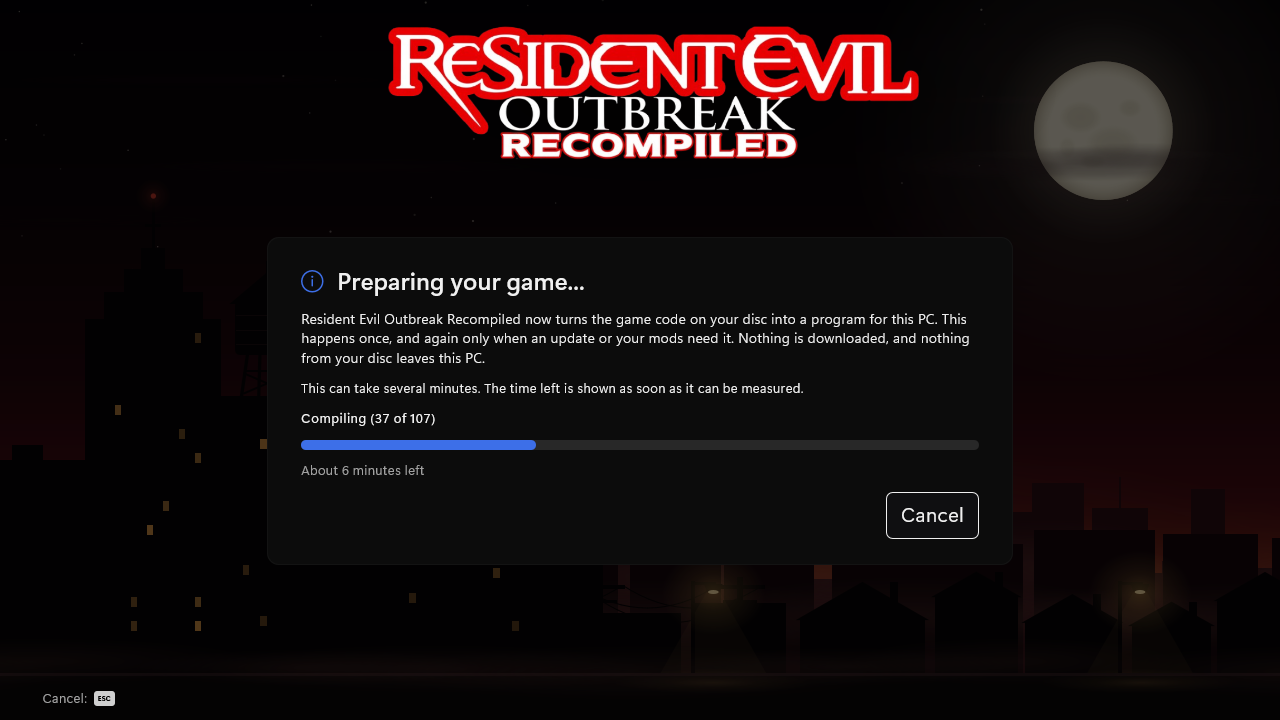
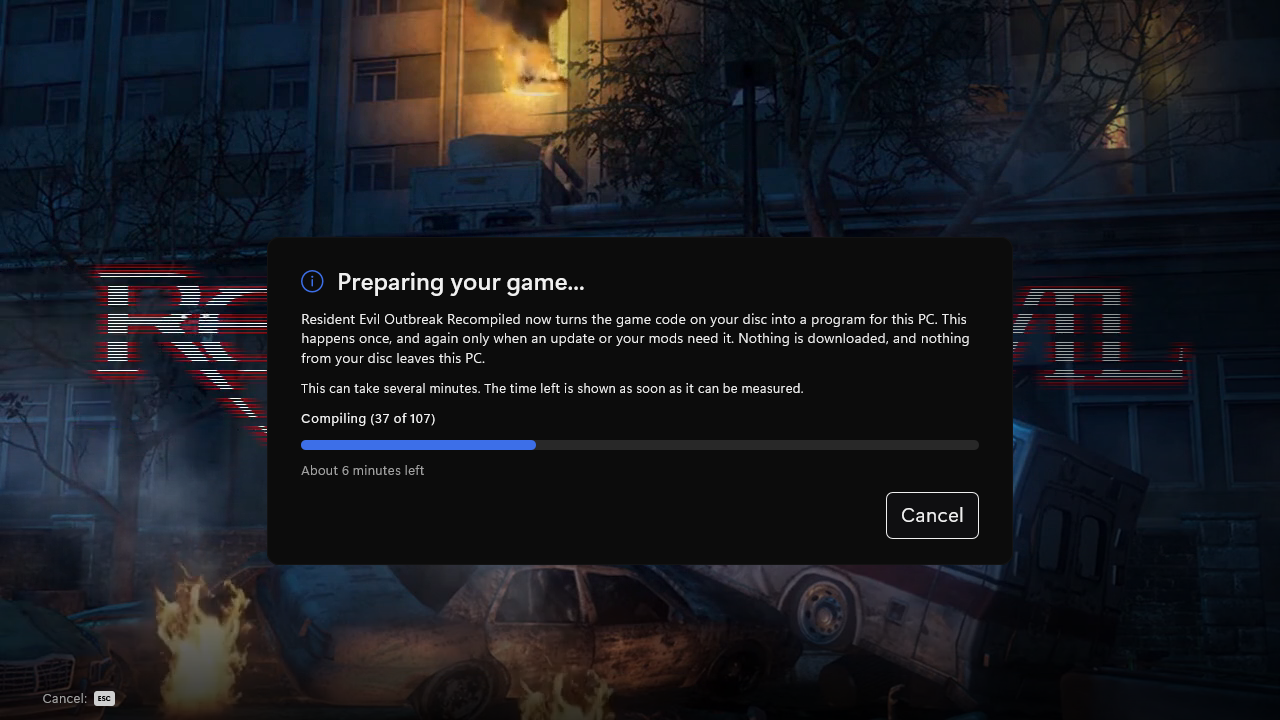
The three built-in background videos: screenshots over the video, installer size and hash

diff --git a/RELEASE_NOTES_1.5.0.md b/RELEASE_NOTES_1.5.0.md
@@ -12,7 +12,7 @@ The first public release of Resident Evil Outbreak Recompiled: an unofficial PC 
 
 | File | Size | SHA-256 |
 |---|---|---|
[2 lines of base64/hex data omitted]
 
 The setup is not code-signed yet, so Windows SmartScreen may warn about an unrecognized app.
 
@@ -20,7 +20,7 @@ The setup is not code-signed yet, so Windows SmartScreen may warn about an unrec
 
 - Windows 10 or 11 (64-bit) and a graphics card with Direct3D 11. Vulkan is optional and comes with your graphics
   driver.
-- About 450 MB of free disk space.
+- About 650 MB of free disk space (the program, its three background videos and the prepared game).
 - **Your own legal copy of the game**: Resident Evil Outbreak (USA) for the PlayStation 2, SLUS-20765, disc version
   2.00, as a disc image (`.iso`) or as files extracted from your disc. Other releases are recognized but not supported
   yet. Outbreak File #2 is not supported.
@@ -67,6 +67,7 @@ The setup is not code-signed yet, so Windows SmartScreen may warn about an unrec
 - **Controls:**
   - Controllers and keyboard and mouse, fully remappable.
   - PlayStation, Xbox or keyboard button symbols.
+- Three built-in background videos for the menus (REOUTB, the default, REOUTB 1 and REOUTB 2), chosen in Settings > General > Background Video; they play behind the main menu, the game data screen and the Preparing screens, and you can add videos of your own.
   - Compensate Game Deadzone, Mouse Acceleration and Hold To Toggle.
 - **Saves:** a virtual memory card in the same raw `.ps2` layout as PCSX2, with backups, Save Profiles and Portable
   Saves.

diff --git a/README.md b/README.md
@@ -48,7 +48,7 @@ pictures.</sub></p>
 SLUS-20765, disc version 2.00. Other releases of File #1 (USA 1.01, Europe, Japan) are recognized but not supported
 yet. Outbreak File #2 is not supported.
 
-**Requirements:** Windows 10 or 11 (64-bit), a graphics card with Direct3D 11 and about 450 MB of free disk space.
+**Requirements:** Windows 10 or 11 (64-bit), a graphics card with Direct3D 11 and about 650 MB of free disk space.
 Vulkan is optional and comes with your graphics driver. No Visual C++ redistributable is needed, and no compiler of
 your own: the one that prepares the game comes with the program. On a PC with Smart App Control or an App Control
 policy, Windows may block the game file built on your PC; the program then explains what happened.
@@ -68,7 +68,7 @@ the note above).
   the SPU2 sound chip, movie playback and the memory card.
 - The original timing at the game's own 30 frames per second.
 - An optional **60 fps mode** (*Settings > Graphics > Framerate*: Original / 60 / Auto), marked experimental.
-- **Skip Intro Movies**, and a main menu that can play a background video of your own.
+- **Skip Intro Movies**, and **three built-in background videos** for the menus (REOUTB, REOUTB 1, REOUTB 2) to choose from in Settings, plus videos of your own.
 
 **Graphics**
 - A Direct3D 11 hardware renderer (the default), a Vulkan renderer that draws the same pictures, and a software
